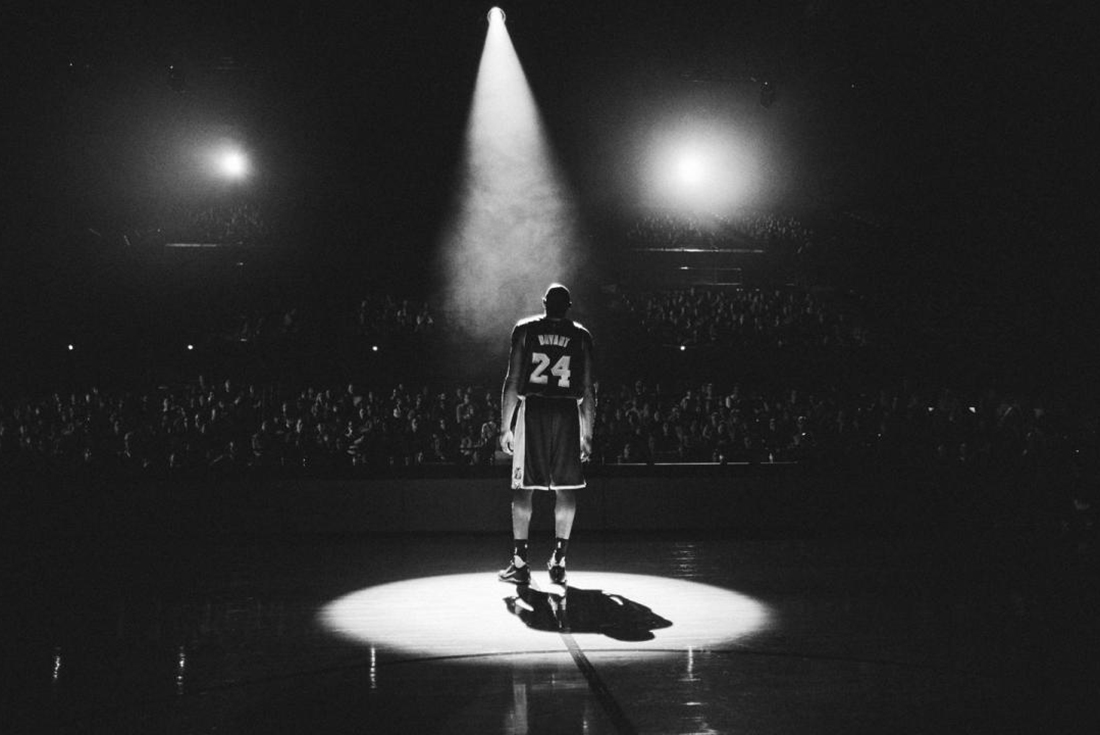
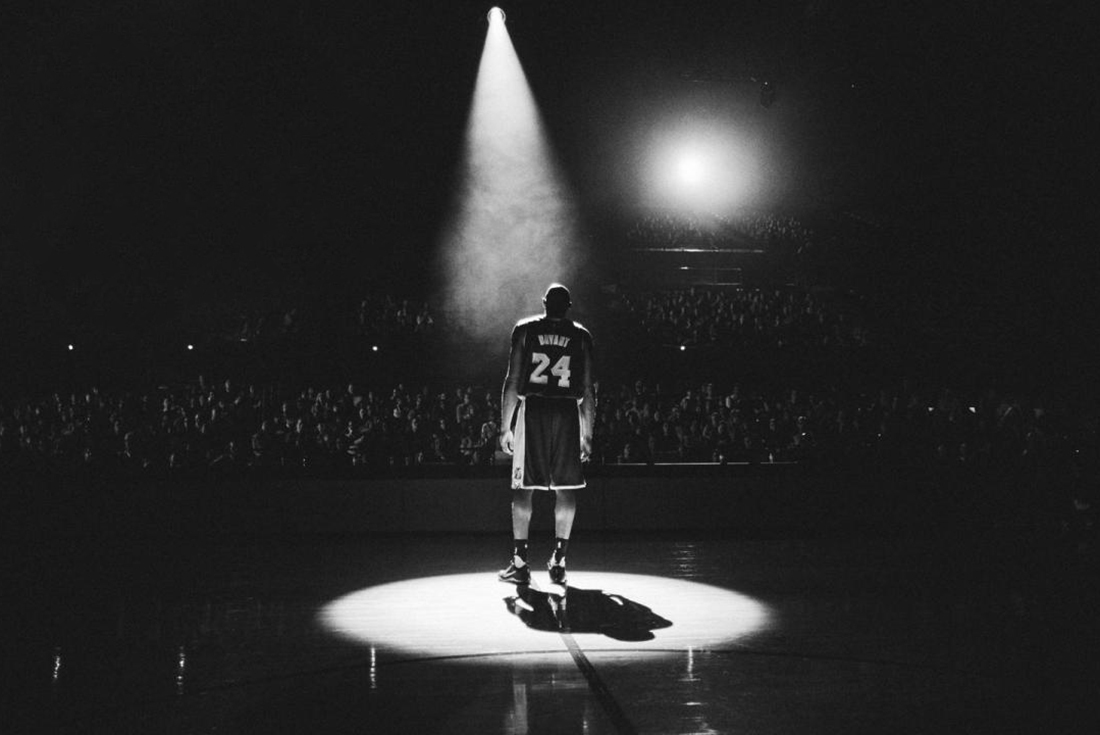
photoshopped the image to show text better

Changed region(s): [[0.0927, 0.1197, 0.2782, 0.3592]]

diff --git a/src/index.css b/src/index.css
@@ -7,6 +7,8 @@ body {
   background-image: url("./img/mamba-day-kobe-bryant-black-and-white-spotlight.jpg");
   background-position: center;
   background-size: cover;
+  background-repeat: no-repeat;
+  background-color: black;
 }
 
 code {

diff --git a/src/App.css b/src/App.css
@@ -1,6 +1,6 @@
 .quote-container {
   float: left;
-  margin-top: 2%;
+  margin-top: 5%;
   margin-left: 10%;
   text-align: center;
   color: #f6f6f6;
